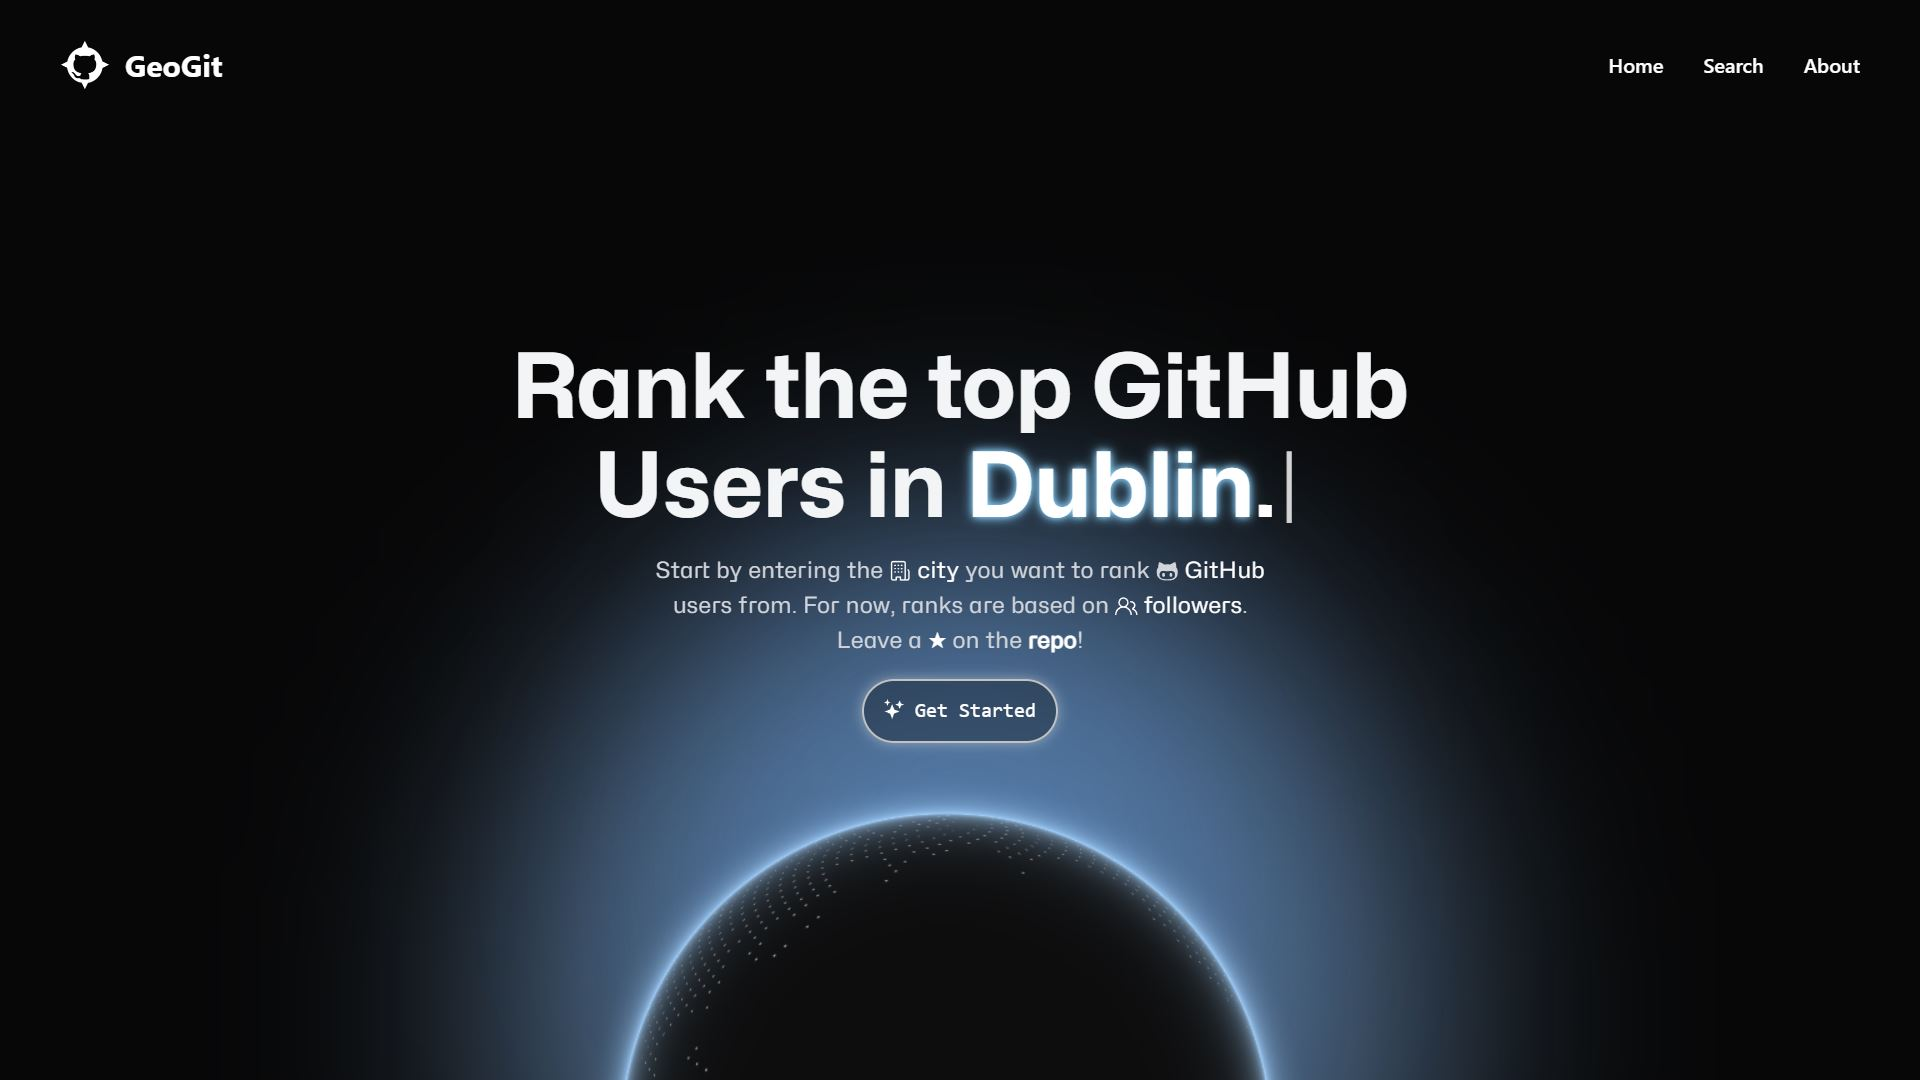
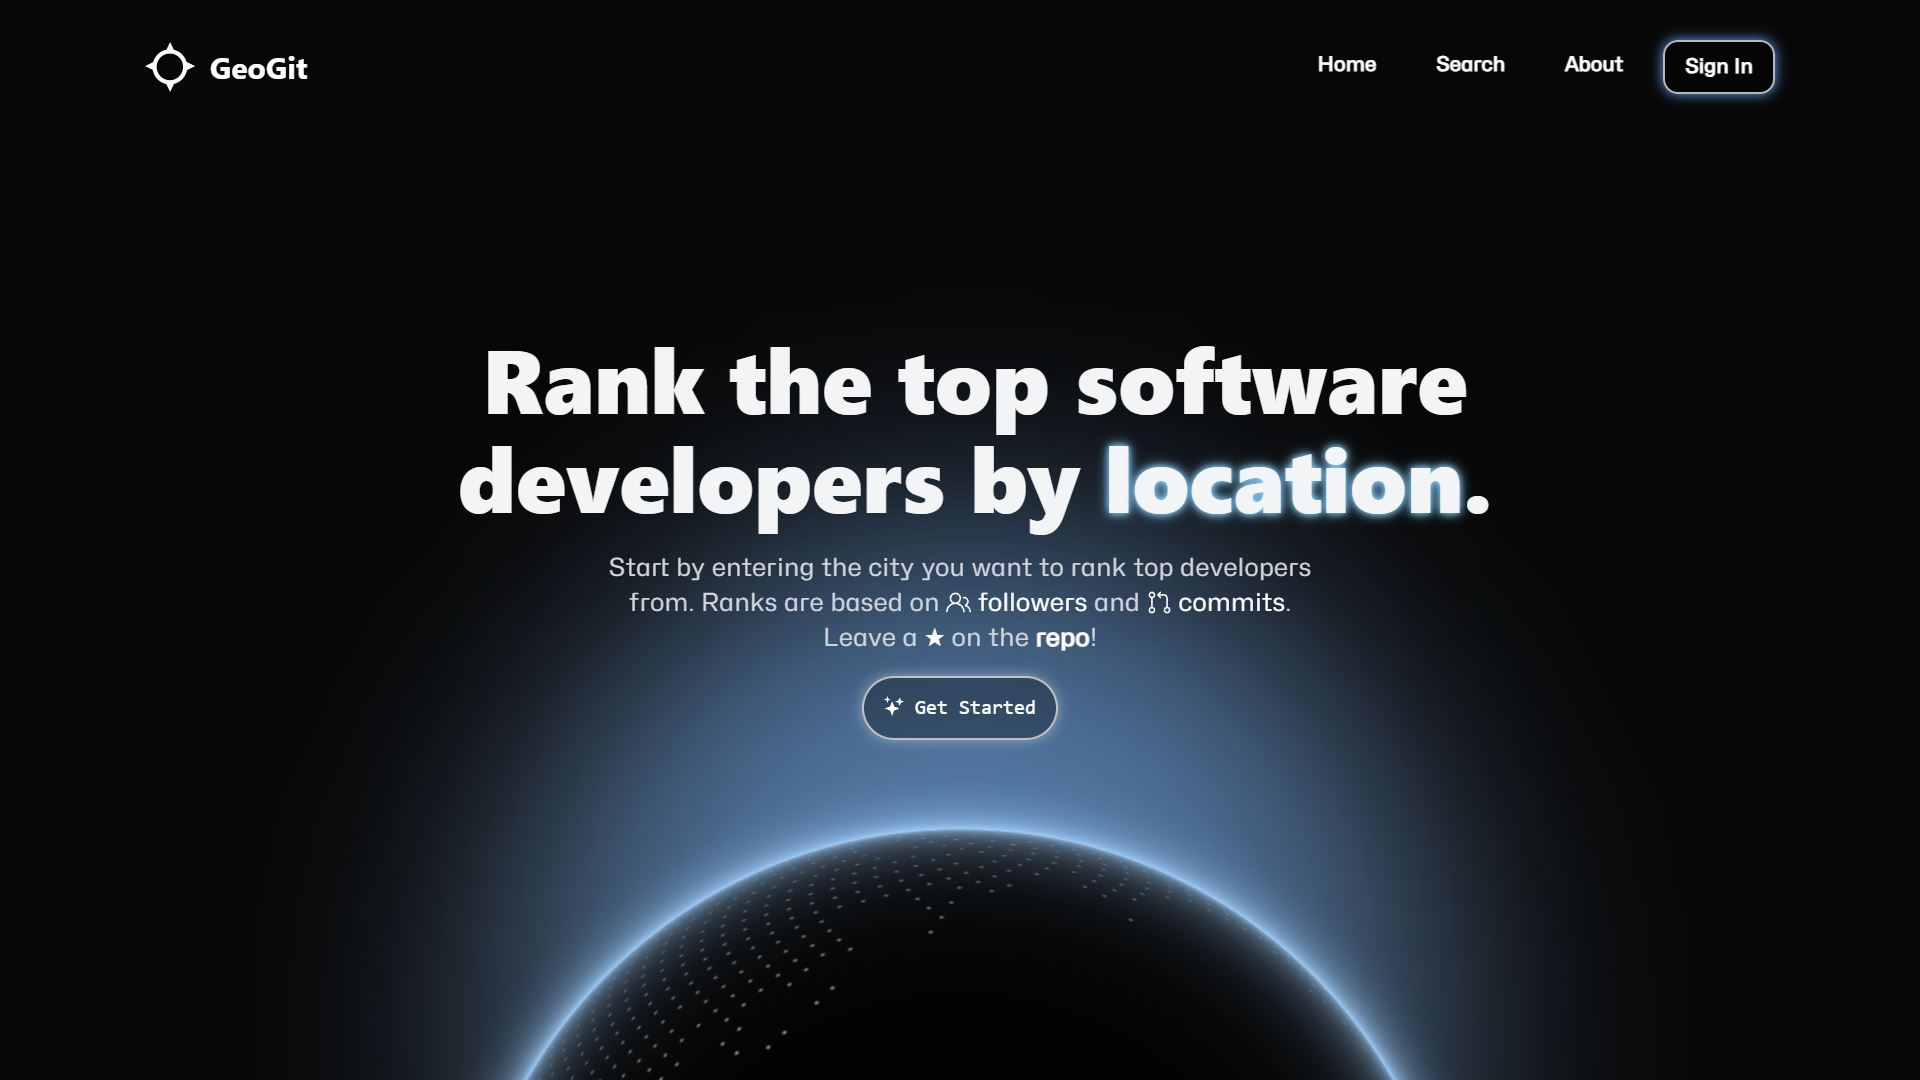
Image Changes

diff --git a/src/pages/Home.jsx b/src/pages/Home.jsx
@@ -26,7 +26,7 @@ function Home() {
 
               {/*Main content / Hero section */}
               <div className="HomeContainer ">
-                <h1 className="hidden md:block text-center pb-1 lg:pl-6 pointer-events-none select-none customFont text-7xl text-gray-100 leading-[1.1] max-w-[53rem]">
+                <h1 className="hidden md:block text-center pb-1 lg:pl-6 pointer-events-none select-none customFont text-7xl text-gray-100 leading-[1.1] max-w-[55rem]">
                   Rank the top <span className="pr-10">software</span> <span className="pl-5">developers</span> in <TypingAnimation />
                 </h1>
 
